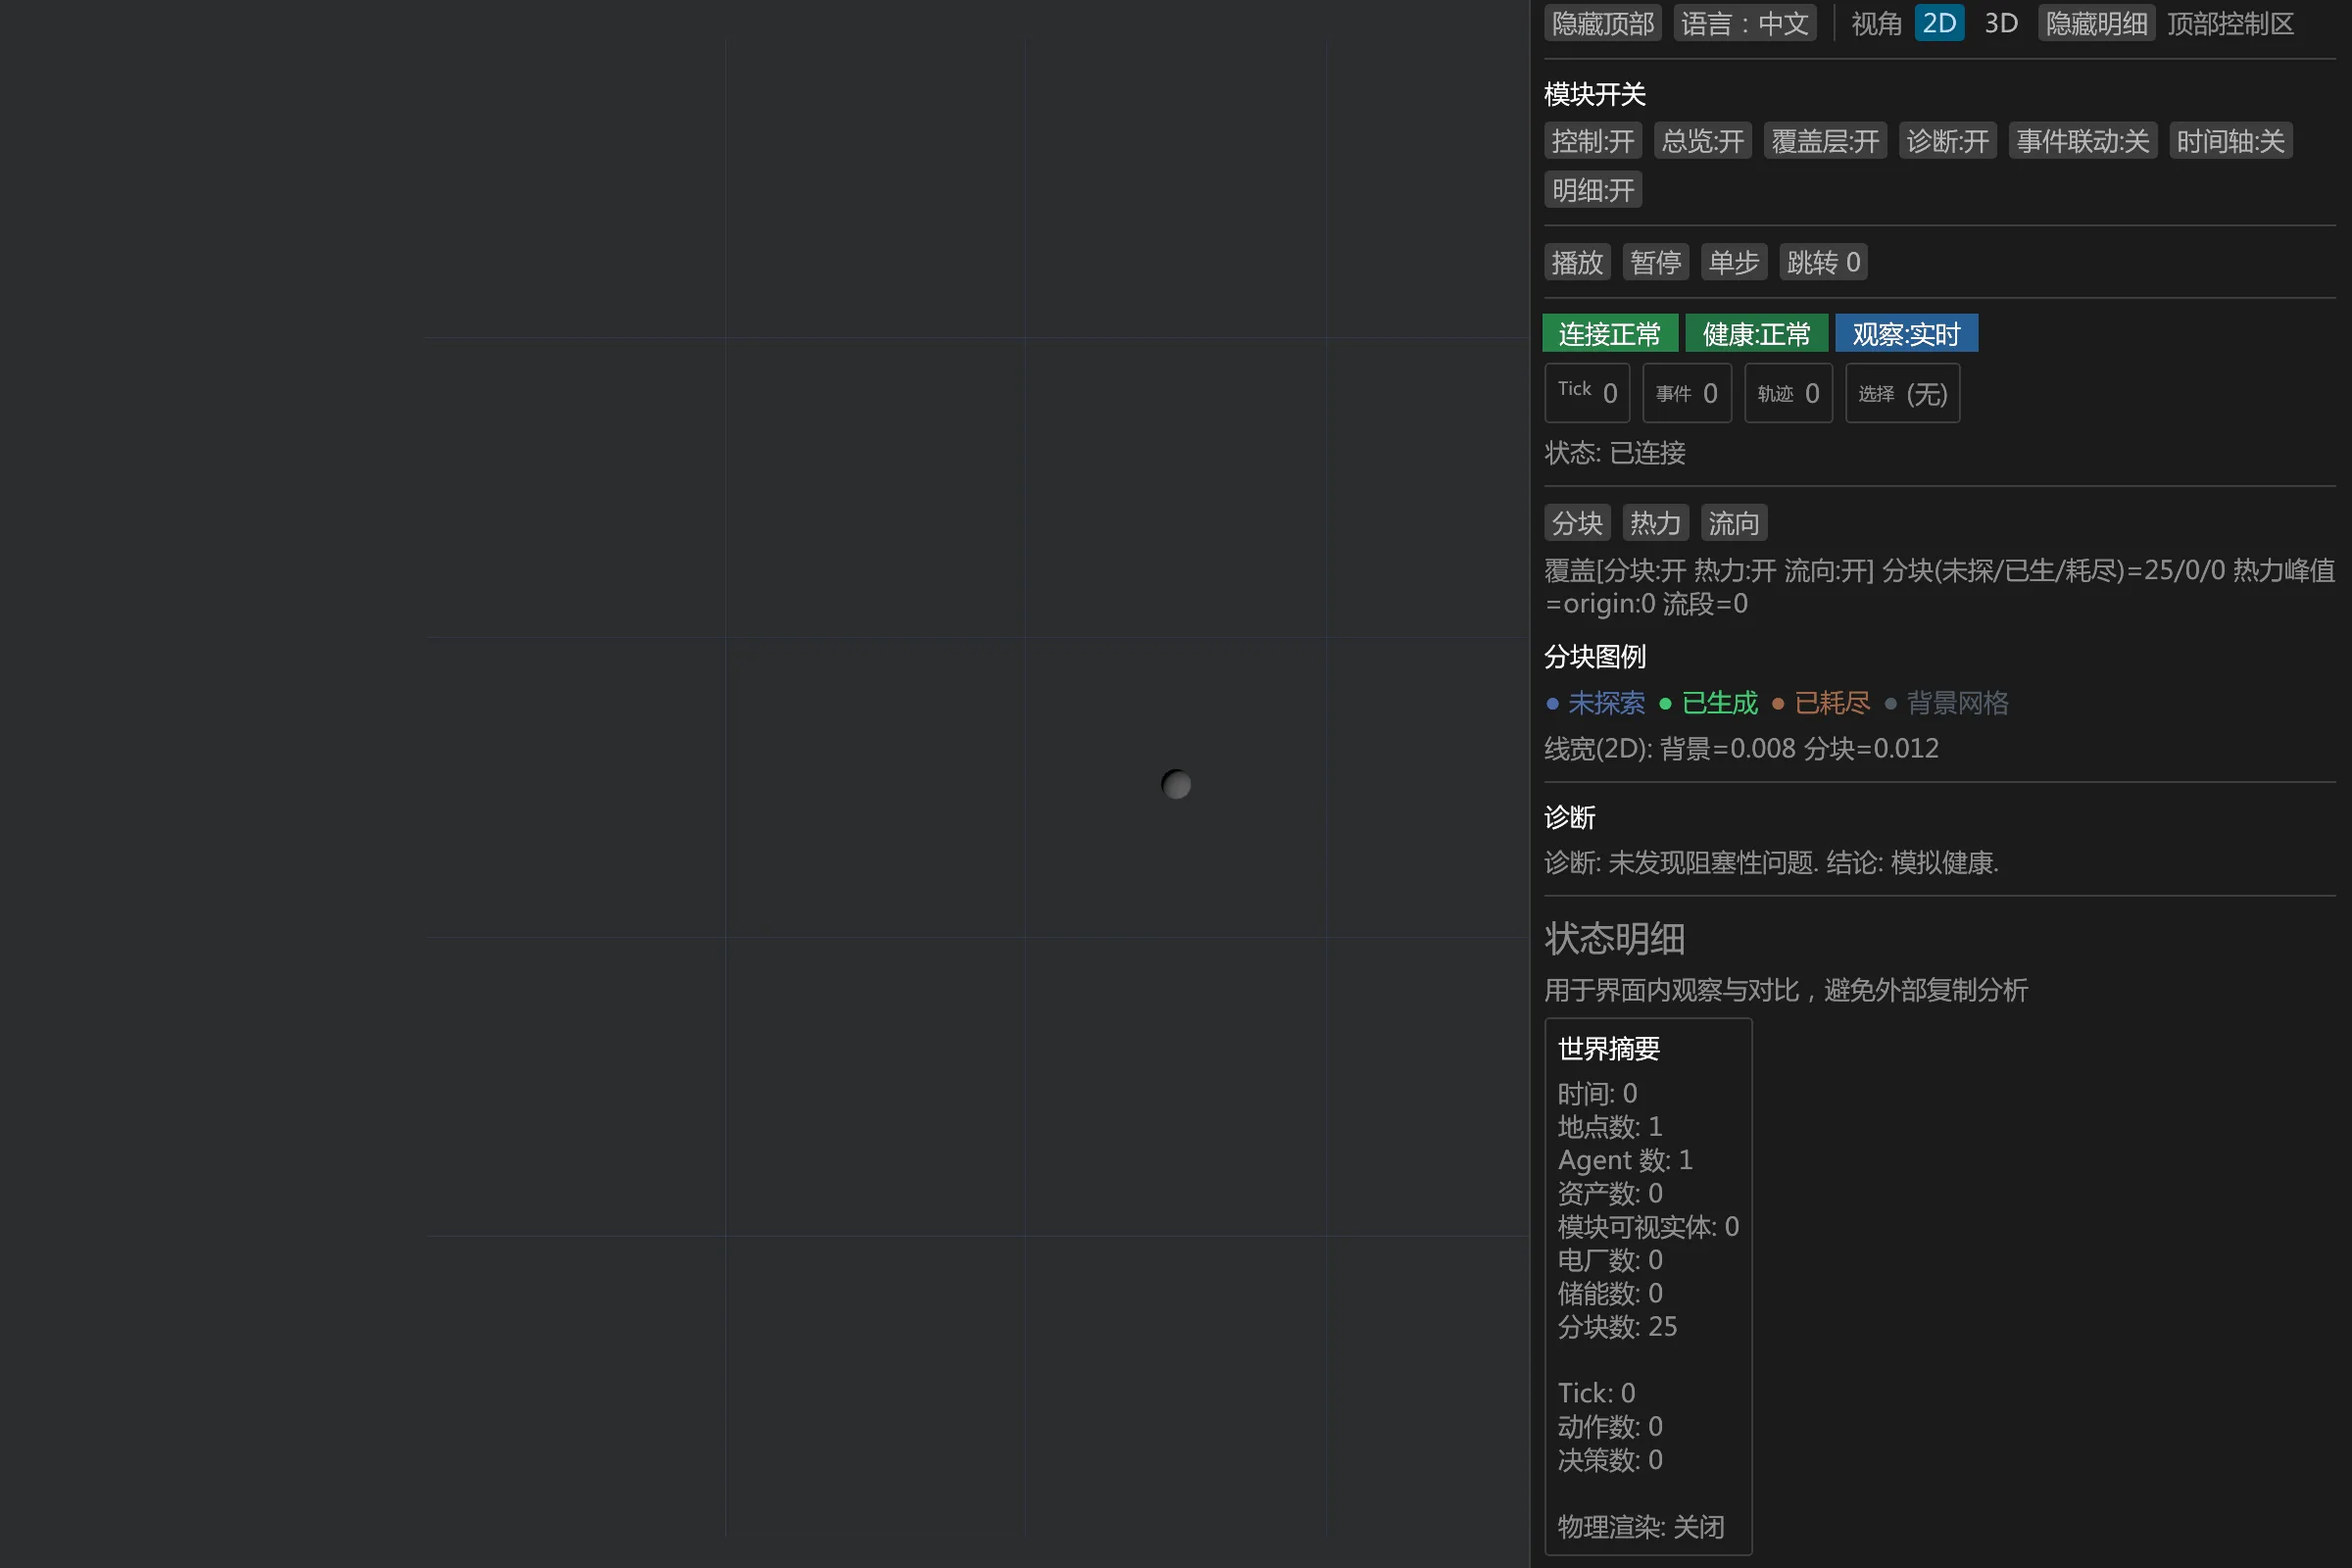
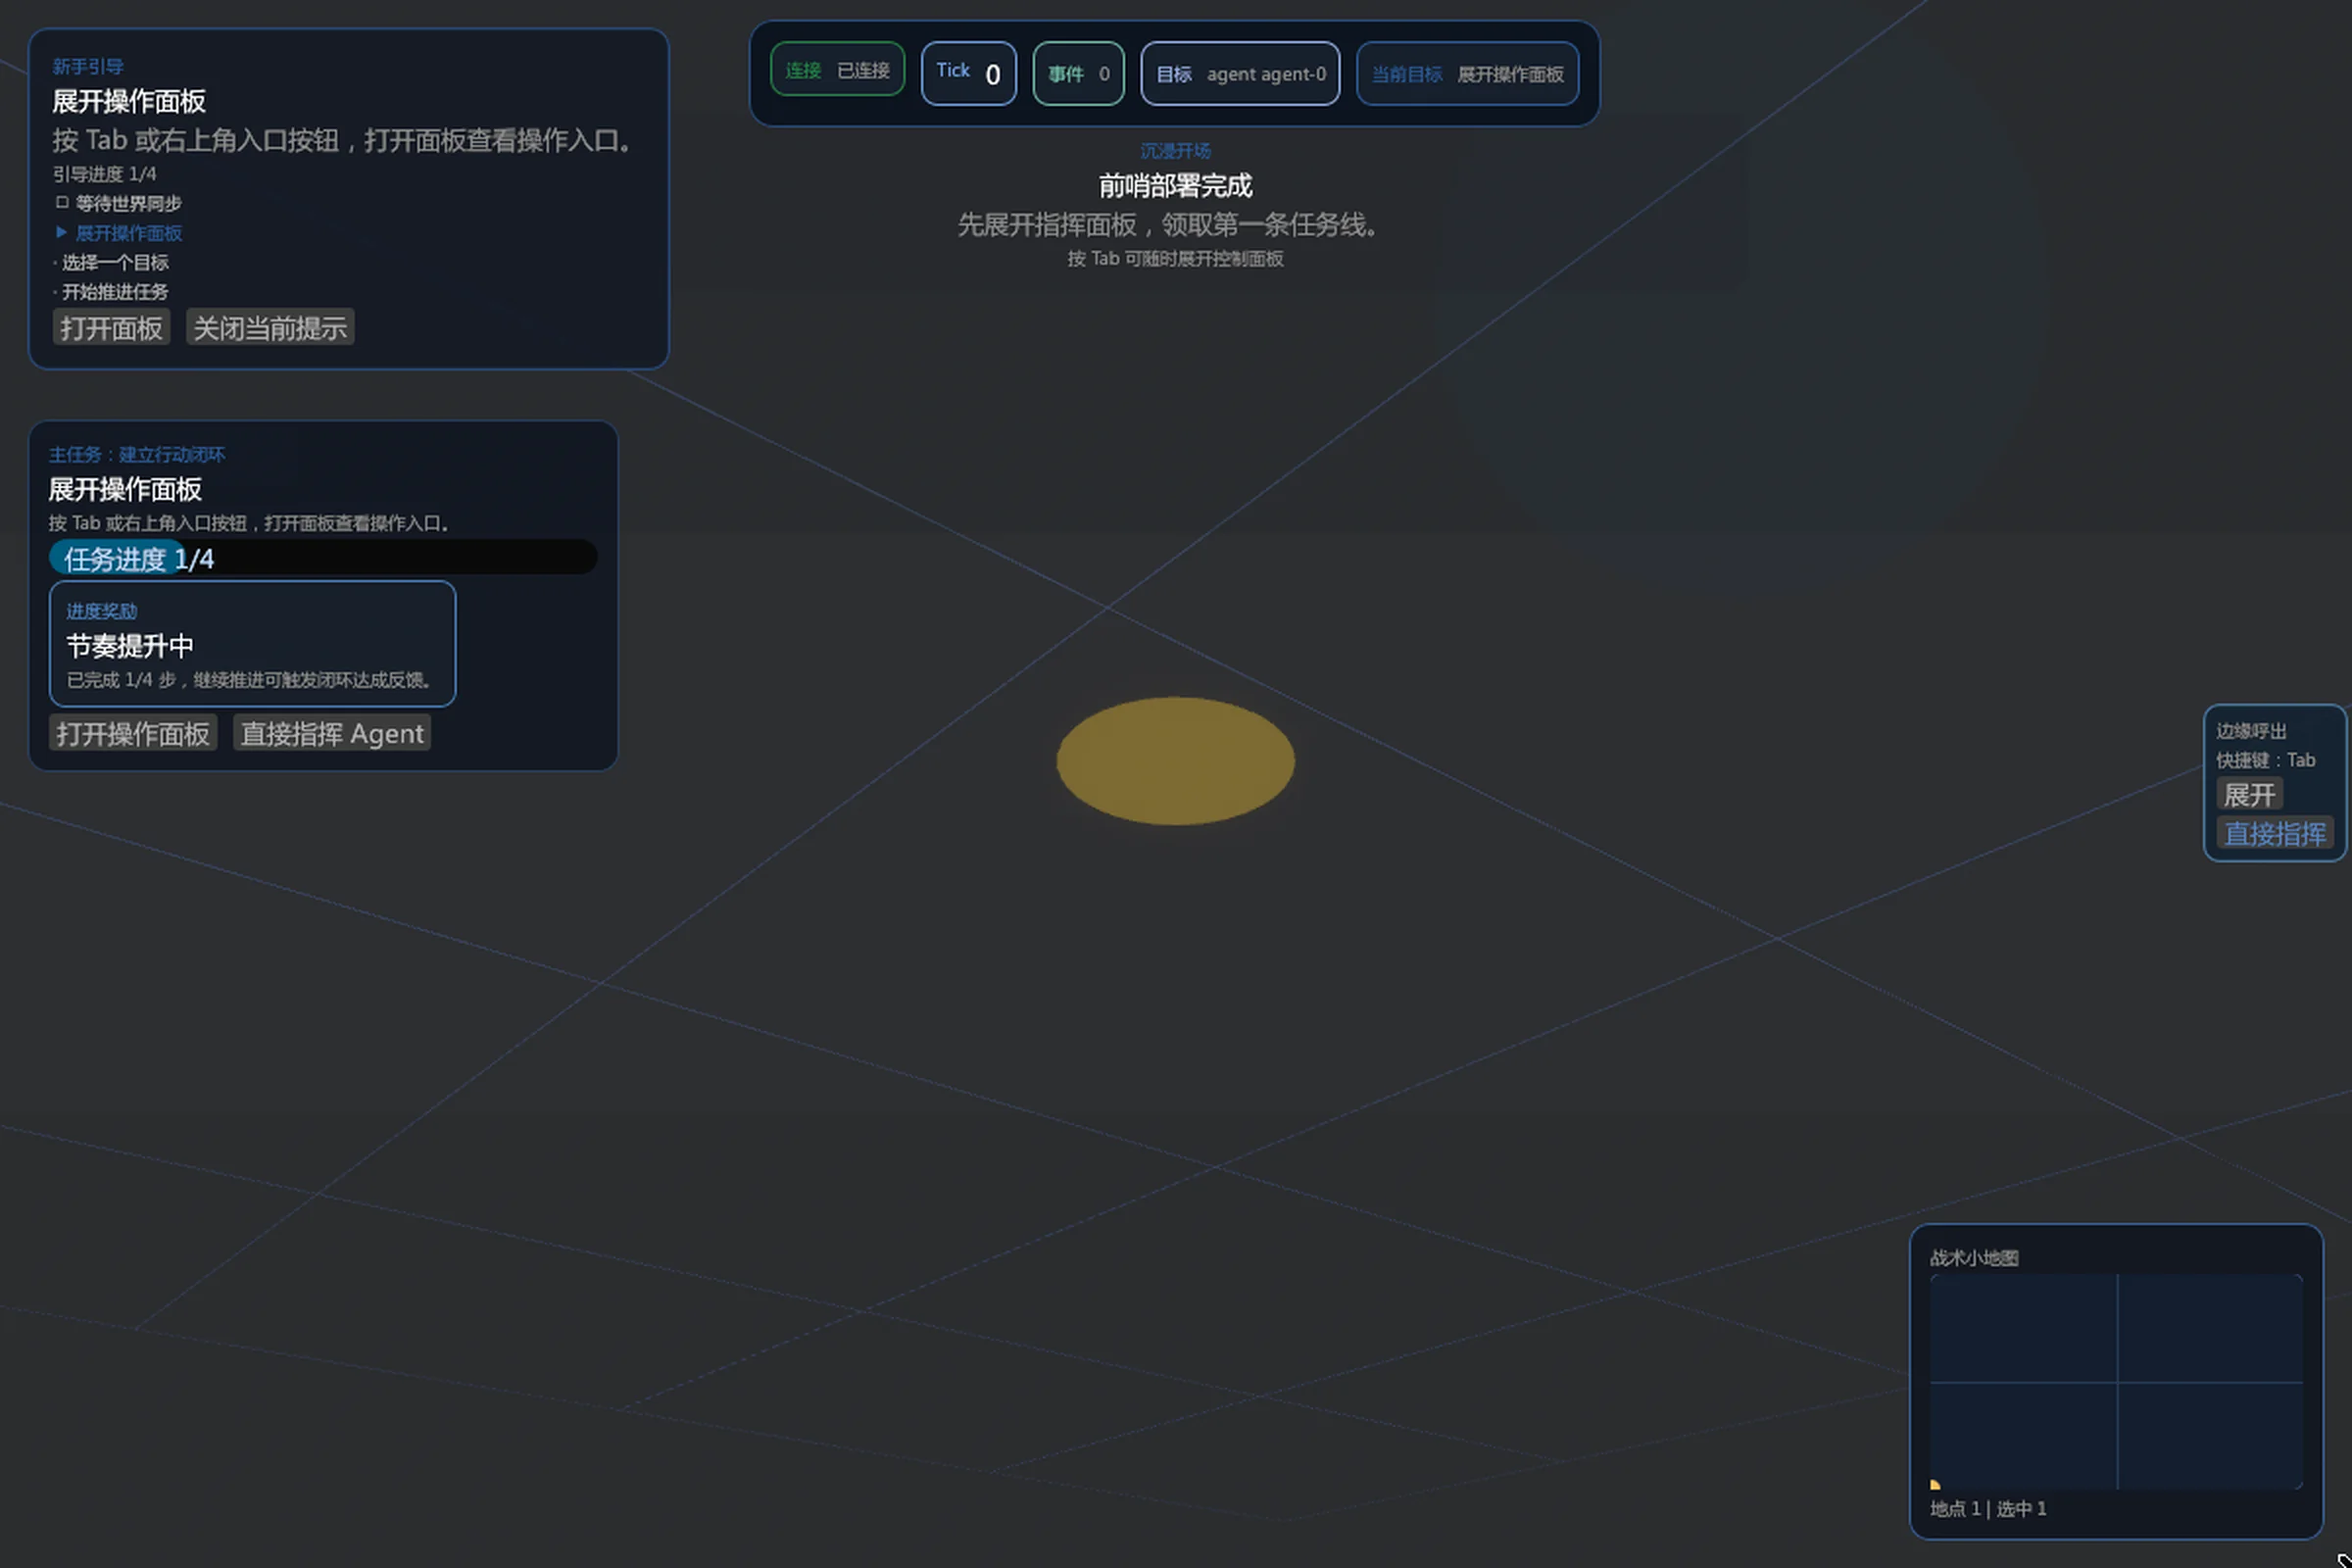
site(home): refresh updated game ui screenshots

diff --git a/doc/devlog/2026-02-26.md b/doc/devlog/2026-02-26.md
@@ -492,3 +492,21 @@
   - test_tier_required：`env -u RUSTC_WRAPPER cargo check -p agent_world_viewer`
 - 遗留事项：
   - 执行 T3：按 Web 闭环重新采集并替换三张场景截图。
+
+- 时刻：2026-02-26 13:52:12 CST
+- 完成内容：完成“GitHub Pages 首页转化文案与中英一致性收敛 + UI 截图刷新（2026-02-26）”T3（游戏 UI 截图刷新）。
+  - 先按 S6 执行 Web 闭环截图尝试（`run-viewer-web.sh + Playwright`），发现浏览器侧触发 `wgpu` pipeline panic（`copy_deferred_lighting_id_pipeline`），`__AW_TEST__.getState().connectionStatus` 持续 `connecting`，无法形成有效 Web 截图。
+  - 按约定切换 fallback：使用 native 抓图链路（等价 `capture-viewer-frame` 过程，显式 `world_viewer_live --no-llm`）完成三场景抓图并保留证据：
+    - `output/playwright/viewer/home-refresh-20260226-native/minimal/`
+    - `output/playwright/viewer/home-refresh-20260226-native/twin_region_bootstrap/`
+    - `output/playwright/viewer/home-refresh-20260226-native/triad_region_bootstrap/`
+  - 已更新站点截图素材：
+    - `site/assets/images/screenshots/minimal.webp`
+    - `site/assets/images/screenshots/twin_region_bootstrap.webp`
+    - `site/assets/images/screenshots/triad_region_bootstrap.webp`
+- 测试：
+  - test_tier_required（Web 闭环尝试）：`env -u NO_COLOR ./scripts/run-viewer-web.sh --address 127.0.0.1 --port 4173` + Playwright `open/snapshot/eval(__AW_TEST__)`（记录失败证据）。
+  - test_tier_required（fallback 闭环）：native 三场景抓图流程（`world_viewer_live --no-llm` + `agent_world_viewer` + `Xvfb/ffmpeg`）通过。
+  - 产物校验：`ffprobe` 校验三张目标图均为 `2400x1600`、`yuv420p`。
+- 遗留事项：
+  - 执行 T4：`env -u RUSTC_WRAPPER cargo check -p agent_world_viewer`，并完成项目文档收口。

diff --git a/doc/site/github-pages-home-conversion-i18n-screenshot-refresh-2026-02-26.project.md b/doc/site/github-pages-home-conversion-i18n-screenshot-refresh-2026-02-26.project.md
@@ -17,10 +17,11 @@
 - [x] 校验 CN/EN section 同构与导航语义一致
 
 ### 3. 游戏 UI 截图刷新
-- [ ] 按 S6 Web 闭环重新采集 `minimal` 截图
-- [ ] 按 S6 Web 闭环重新采集 `twin_region_bootstrap` 截图
-- [ ] 按 S6 Web 闭环重新采集 `triad_region_bootstrap` 截图
-- [ ] 替换 `site/assets/images/screenshots/*.webp`
+- [x] 按 S6 Web 闭环尝试采集 `minimal` 截图（记录 Web 端 `wgpu` pipeline panic）
+- [x] 按 S6 Web 闭环尝试采集 `twin_region_bootstrap` 截图（同上）
+- [x] 按 S6 Web 闭环尝试采集 `triad_region_bootstrap` 截图（同上）
+- [x] 按约定 fallback 到 native 抓图链路，重新采集三场景 PNG 证据
+- [x] 替换 `site/assets/images/screenshots/*.webp`
 
 ### 4. 验证与收口
 - [ ] 执行 `env -u RUSTC_WRAPPER cargo check -p agent_world_viewer`
@@ -32,6 +33,6 @@
 - 测试流程：`testing-manual.md` S6 Web 闭环。
 
 ## 状态
-- 当前阶段：进行中（任务 0/1/2 已完成，任务 3/4 待完成）
-- 最近更新：完成任务 2（中英文一致性校准）（2026-02-26）
-- 下一步：执行任务 3（游戏 UI 截图刷新）。
+- 当前阶段：进行中（任务 0/1/2/3 已完成，任务 4 待完成）
+- 最近更新：完成任务 3（截图刷新，含 Web 失败后的 native fallback）（2026-02-26）
+- 下一步：执行任务 4（验证与收口）。
